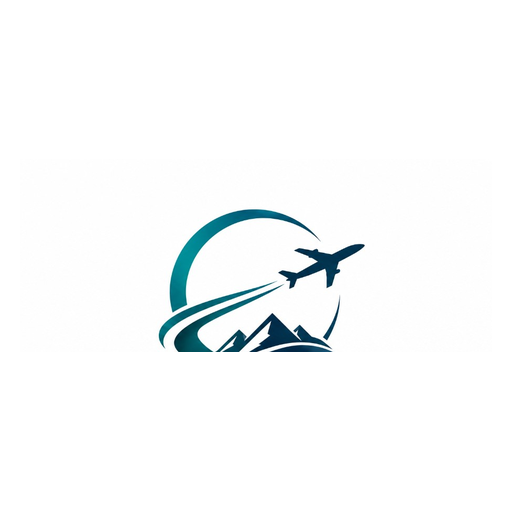
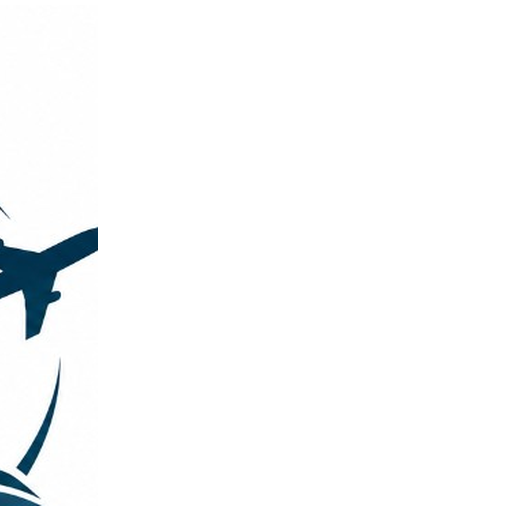
sitelogo

diff --git a/index.html b/index.html
@@ -2,9 +2,11 @@
 <html lang="en">
   <head>
     <meta charset="UTF-8" />
-    <!-- Favicon: plane/circle mark only (no EPIC TOUR text) -->
-    <link rel="icon" type="image/png" href="/favicon.png?v=59b4d57f" />
-    <link rel="apple-touch-icon" href="/apple-touch-icon.png?v=59b4d57f" />
+    <!-- Favicon: plane mark only — large/clear in tab (no EPIC TOUR text) -->
+    <link rel="icon" type="image/png" sizes="32x32" href="/favicon-32.png?v=3" />
+    <link rel="icon" type="image/png" sizes="48x48" href="/favicon-48.png?v=3" />
+    <link rel="icon" type="image/png" sizes="512x512" href="/favicon.png?v=3" />
+    <link rel="apple-touch-icon" sizes="180x180" href="/apple-touch-icon.png?v=3" />
     <meta name="viewport" content="width=device-width, initial-scale=1.0" />
     <meta name="theme-color" content="#0f766e" />
     <link rel="preconnect" href="https://fonts.googleapis.com" />